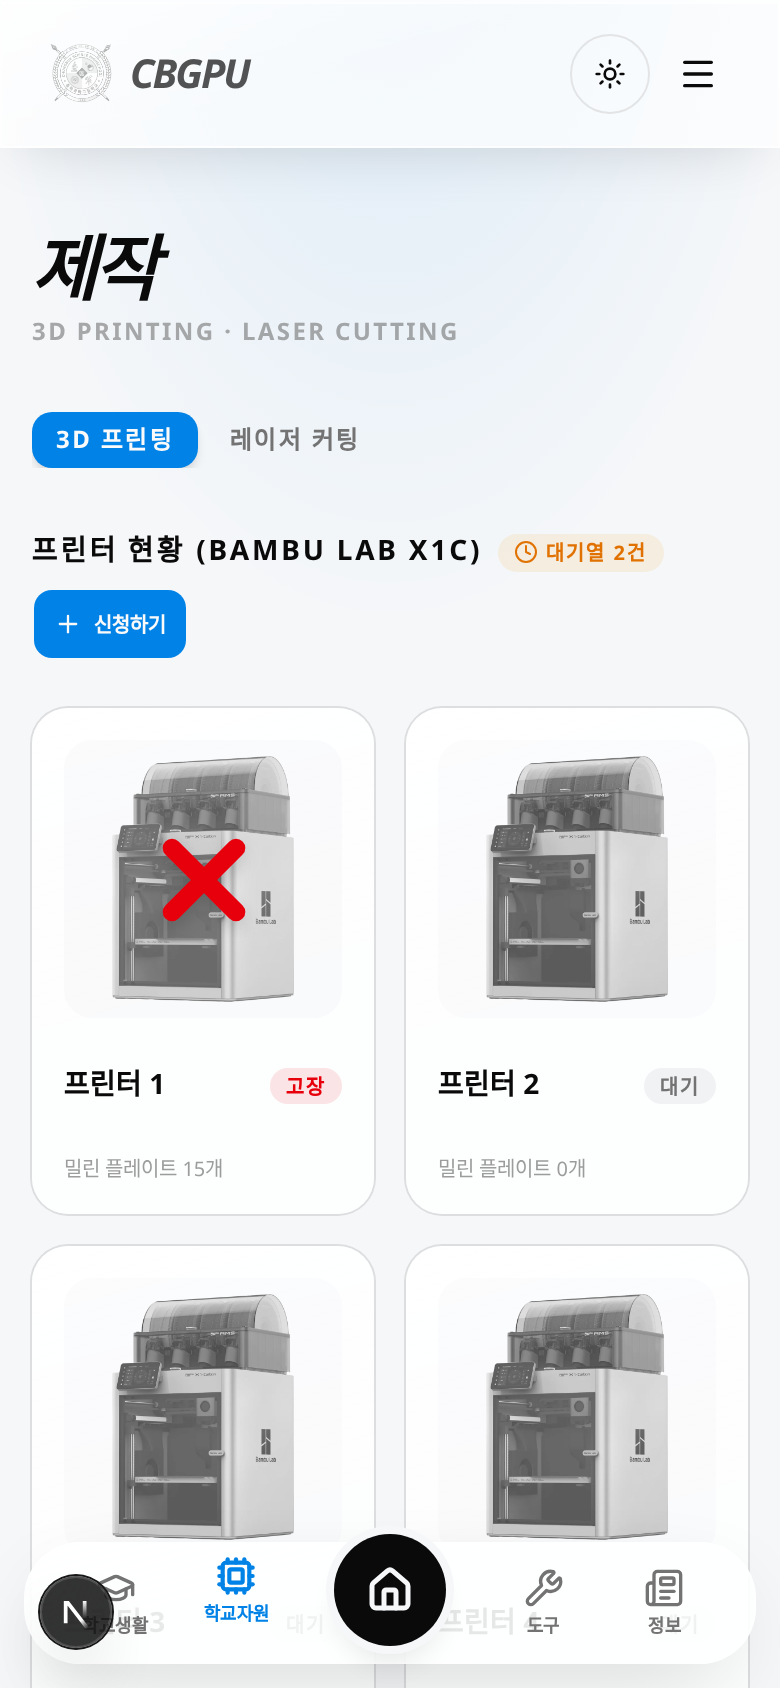
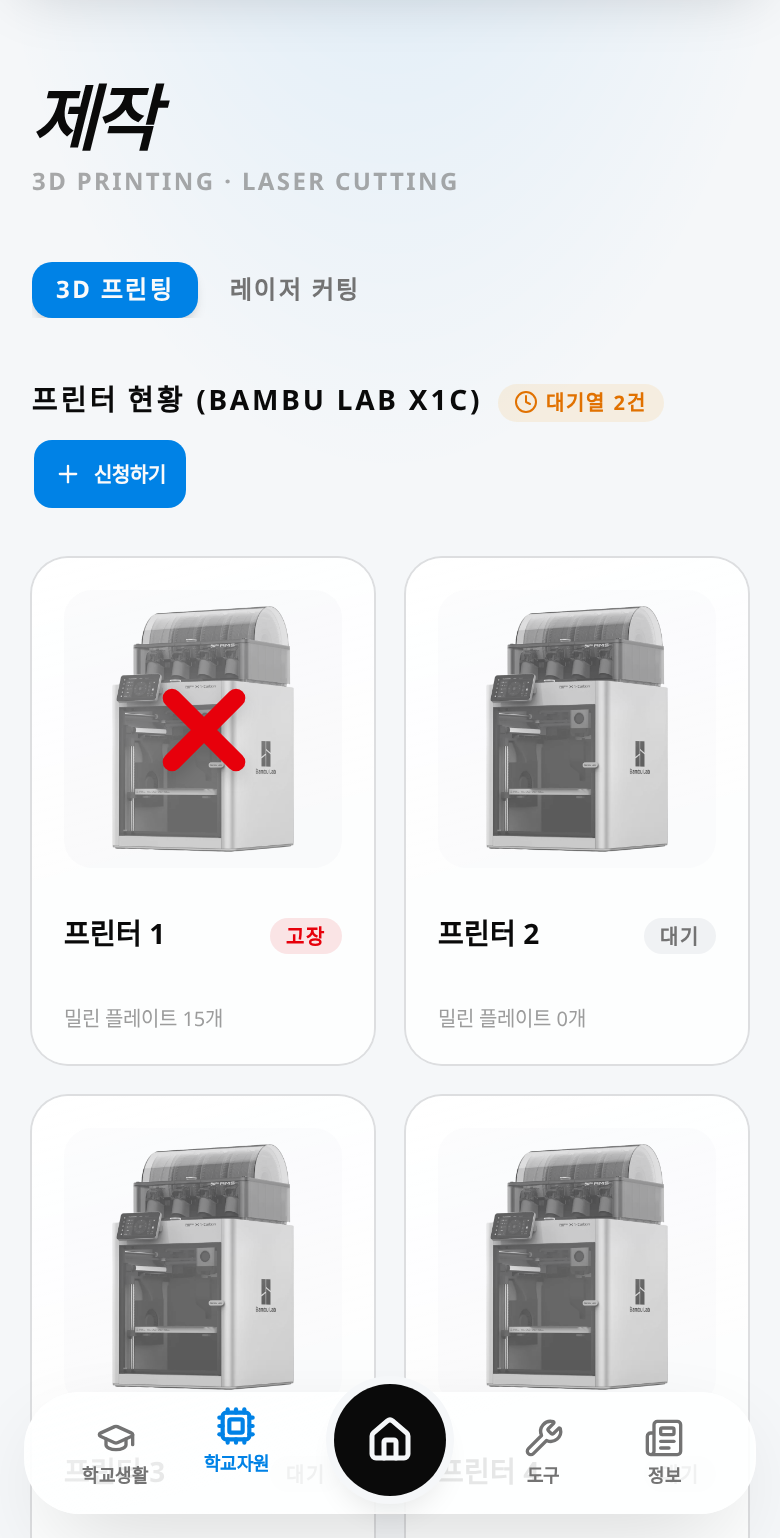
fix(web): recapture launch page screenshots, redesign phone mockup
Every screenshot on the launch page had Next.js's dev-mode indicator
(a black "N" bubble) baked into the corner — they'd all been captured
against `next dev`, not a production build. Rebuilt in production mode
and recaptured all 7 screens. Also cropped the repeated top navbar
(logo/theme toggle/hamburger) out of each — the same generic header on
every single mockup read as "a website in a phone frame," not app
screenshots.

PhoneMockup itself was a flat black rounded rectangle with a tiny dot
for a camera. Gave it a titanium-gradient frame, a proper dynamic-
island-style cutout, a subtle glass sheen on the screen, and a softer
ambient shadow so it reads as an actual device.

diff --git a/src/components/PhoneMockup.tsx b/src/components/PhoneMockup.tsx
@@ -1,23 +1,30 @@
 import Image from 'next/image';
 
 /** Generic modern-smartphone bezel (no particular brand) around a screenshot
- * — CSS only, no device-frame image asset needed. */
+ * — CSS only, no device-frame image asset needed. Titanium-ish gradient
+ * frame + a dynamic-island-style cutout reads as an actual device rather
+ * than "a black rounded rectangle", which a flat bg-neutral-900 frame with a
+ * tiny punch-hole dot did not. */
 export function PhoneMockup({
   src, alt, className = '', width = 260,
 }: { src: string; alt: string; className?: string; width?: number }) {
   return (
     <div className={`relative mx-auto ${className}`} style={{ width }}>
-      <div className="relative rounded-[2.5rem] bg-neutral-900 p-2.5 shadow-2xl">
-        <div className="relative rounded-[2rem] overflow-hidden bg-black aspect-[9/19.5]">
-          <Image src={src} alt={alt} fill sizes="260px" className="object-cover object-top" />
-          {/* punch-hole camera */}
-          <div className="absolute top-2.5 left-1/2 -translate-x-1/2 size-2.5 rounded-full bg-black ring-1 ring-white/10" />
+      <div className="relative rounded-[3rem] bg-gradient-to-br from-neutral-600 via-neutral-800 to-black p-[3px] shadow-[0_35px_60px_-20px_rgba(0,0,0,0.45)]">
+        <div className="relative rounded-[calc(3rem-3px)] bg-black p-2 ring-1 ring-white/10">
+          <div className="relative rounded-[2.1rem] overflow-hidden bg-black aspect-[9/19.5]">
+            <Image src={src} alt={alt} fill sizes="300px" className="object-cover object-top" />
+            {/* subtle glass sheen */}
+            <div className="pointer-events-none absolute inset-0 bg-gradient-to-br from-white/10 via-transparent to-transparent" />
+            {/* dynamic-island-style cutout */}
+            <div className="absolute top-2.5 left-1/2 -translate-x-1/2 w-16 h-5 rounded-full bg-black ring-1 ring-white/10" />
+          </div>
         </div>
       </div>
       {/* side buttons */}
-      <div className="absolute right-0 top-24 w-[3px] h-10 bg-neutral-900 rounded-l" />
-      <div className="absolute left-0 top-20 w-[3px] h-6 bg-neutral-900 rounded-r" />
-      <div className="absolute left-0 top-28 w-[3px] h-10 bg-neutral-900 rounded-r" />
+      <div className="absolute right-0 top-24 w-[3px] h-11 bg-gradient-to-b from-neutral-600 to-neutral-900 rounded-l" />
+      <div className="absolute left-0 top-20 w-[3px] h-7 bg-gradient-to-b from-neutral-600 to-neutral-900 rounded-r" />
+      <div className="absolute left-0 top-28 w-[3px] h-11 bg-gradient-to-b from-neutral-600 to-neutral-900 rounded-r" />
     </div>
   );
 }
